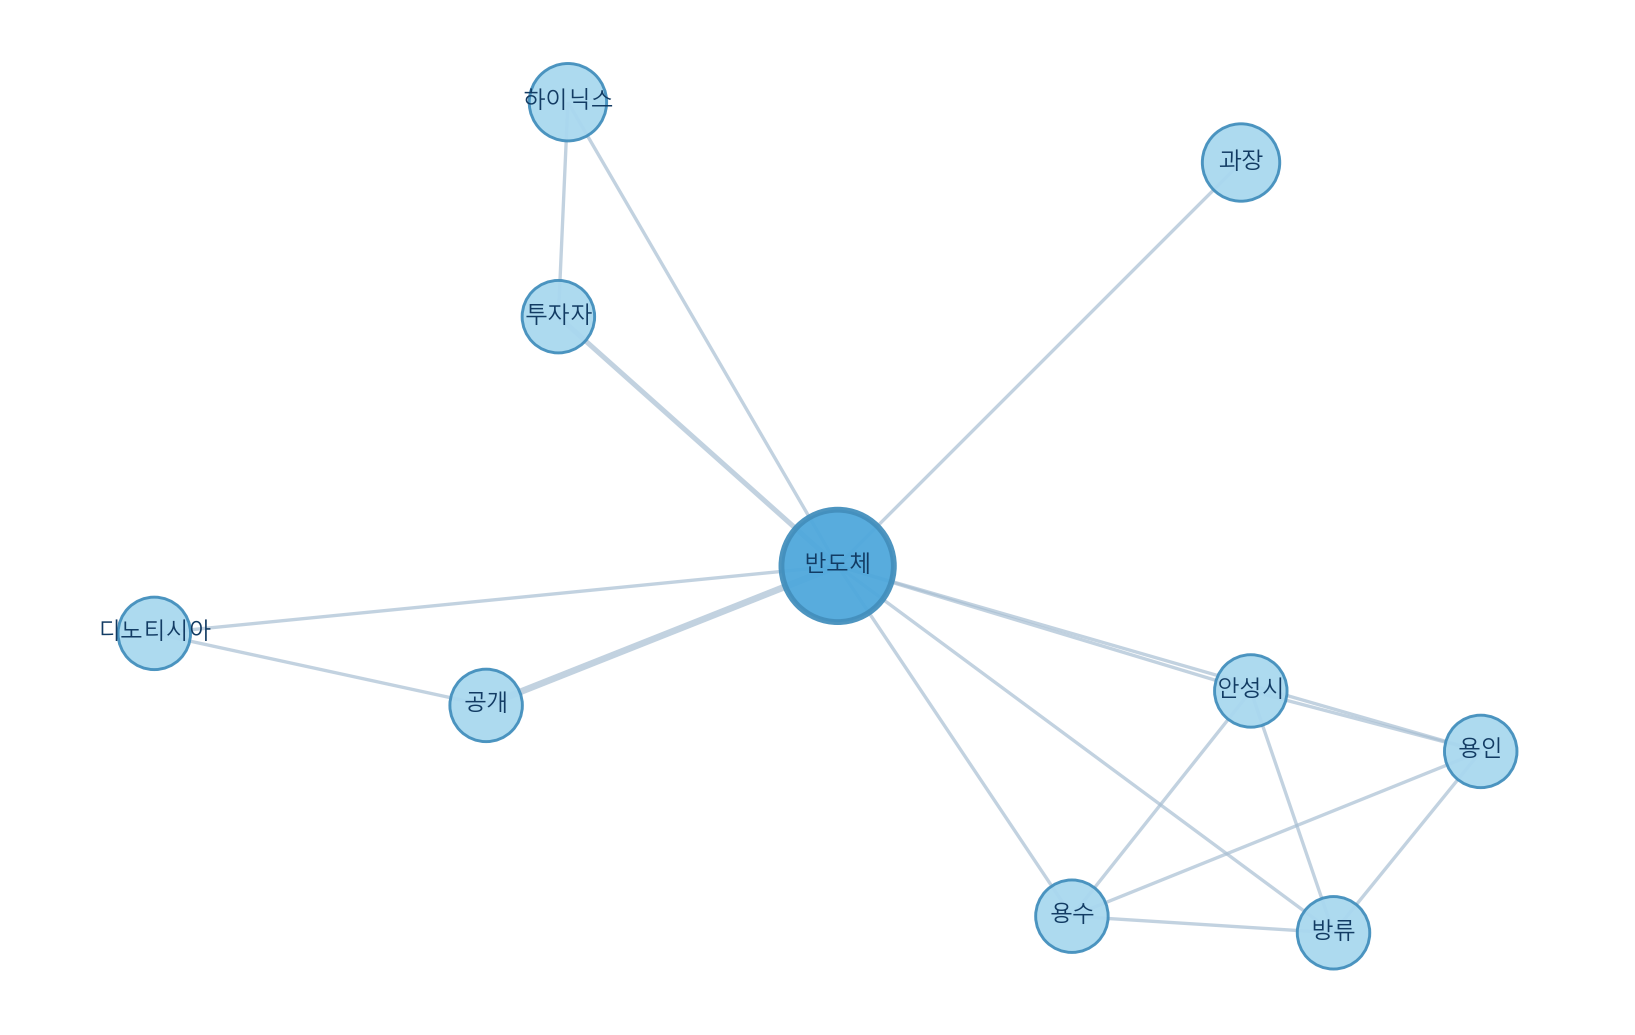
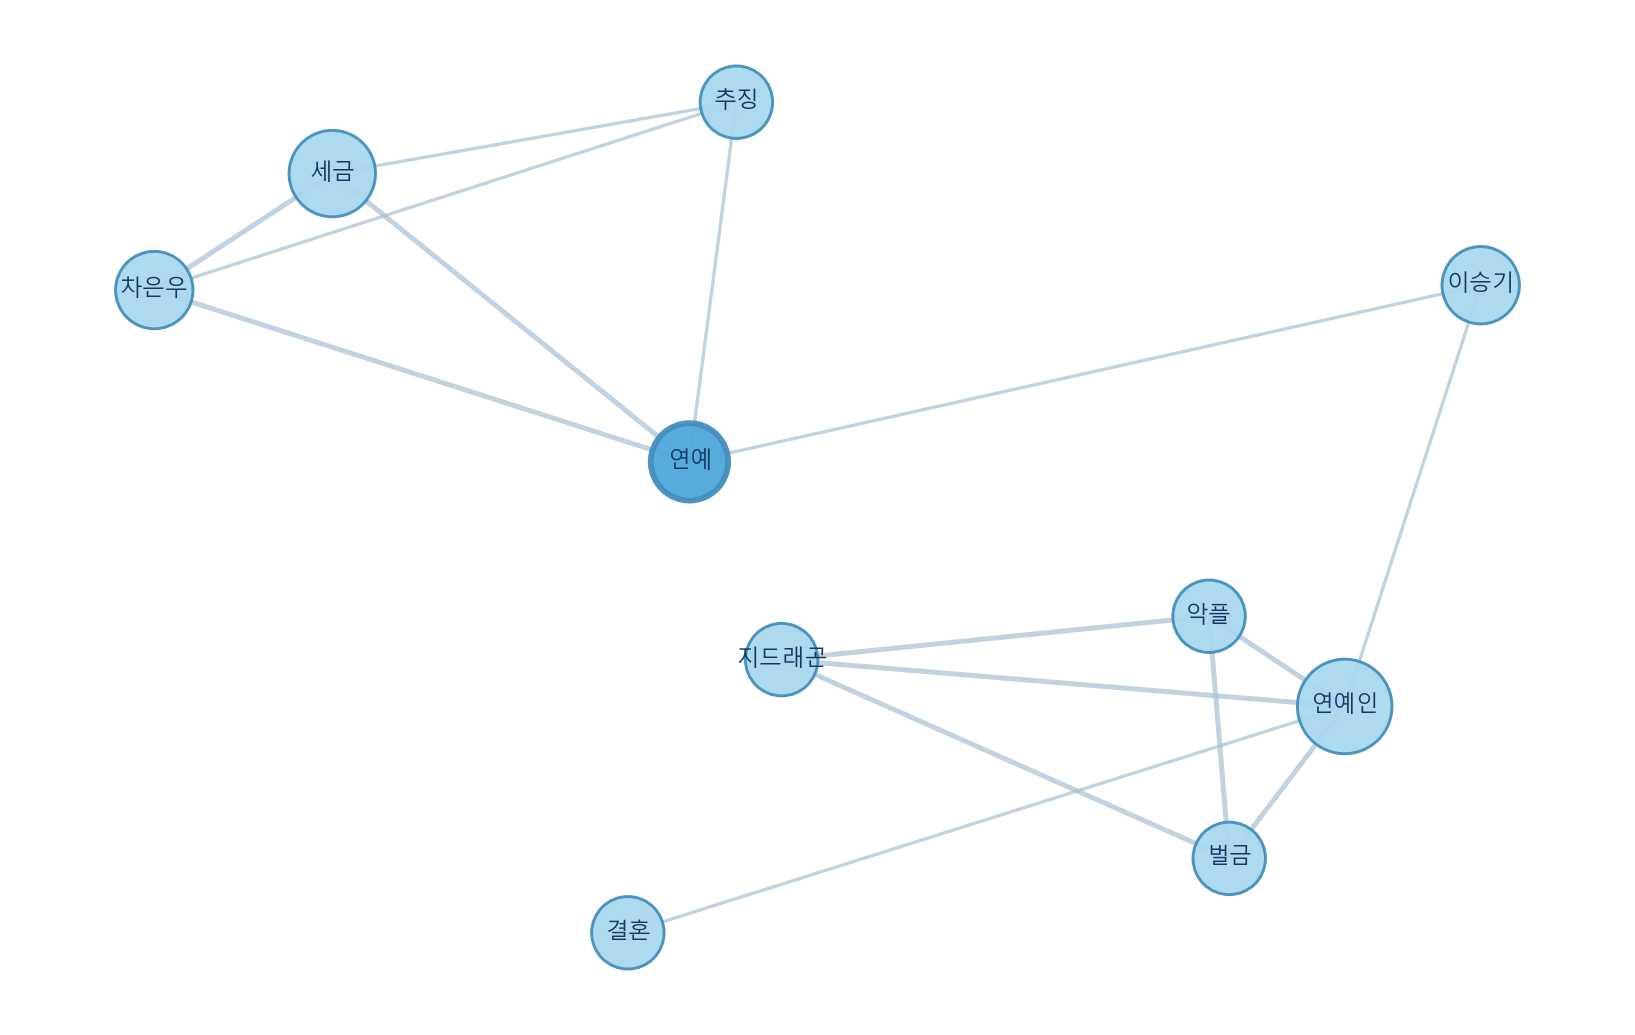
뉴스 관계도 및 관심 키워드 시각화 기능 추가
- NetworkX 기반 뉴스 관계도 시각화 기능 구현
- 사용자 검색 기록 기반 관심 키워드 분석 추가
- 관심 키워드를 막대 그래프로 시각화
- 추천뉴스 페이지 UI 개선 및 디자인 통일
- 뉴스 관계도 및 관심도 분석 기능 연동

diff --git a/templates/interests.html b/templates/interests.html
@@ -2,7 +2,12 @@
 <html lang="ko">
 <head>
     <meta charset="UTF-8">
-    <meta name="viewport" content="width=device-width, initial-scale=1.0">
+
+    <meta
+        name="viewport"
+        content="width=device-width, initial-scale=1.0"
+    >
+
     <title>추천뉴스 - NewsHub</title>
 
     <link
@@ -17,11 +22,19 @@
         <h1>추천뉴스</h1>
 
         {% if session.get("username") %}
-            <a href="{{ url_for('profile') }}" class="profile-icon">
+            <a
+                href="{{ url_for('profile') }}"
+                class="profile-icon"
+                aria-label="프로필"
+            >
                 👤
             </a>
         {% else %}
-            <a href="{{ url_for('login') }}" class="profile-icon">
+            <a
+                href="{{ url_for('login') }}"
+                class="profile-icon"
+                aria-label="로그인"
+            >
                 👤
             </a>
         {% endif %}
@@ -29,21 +42,38 @@
 
     <main>
 
-        <section class="interest-section">
+        <section class="interest-analysis">
             <h2>내 주요 관심 키워드</h2>
 
-            {% if keywords %}
-                <div class="keyword-list">
-                    {% for keyword, count in keywords %}
+            {% if interest_bars %}
+                <p class="interest-description">
+                    최근 검색 기록을 기반으로 분석한
+                    관심 키워드입니다.
+                </p>
+
+                <div class="interest-bar-list">
+                    {% for item in interest_bars %}
                     <a
-                        class="keyword-tag"
-                        href="{{ url_for('home', q=keyword) }}"
+                        class="interest-bar-item"
+                        href="{{ url_for(
+                            'home',
+                            q=item.keyword
+                        ) }}"
                     >
-                        {{ keyword }}
-                        <span>{{ count }}회</span>
+                        <div class="interest-bar-label">
+                            {{ item.keyword }}
+                        </div>
+
+                        <div class="interest-bar-track">
+                            <div
+                                class="interest-bar-fill"
+                                data-percentage="{{ item.percentage }}"
+                            ></div>
+                        </div>
                     </a>
                     {% endfor %}
                 </div>
+
             {% else %}
                 <p>
                     아직 분석할 검색 기록이 없습니다.
@@ -57,7 +87,15 @@
         {% if recommended_news %}
             {% for news in recommended_news %}
             <article>
-                <h3>{{ news.title }}</h3>
+                <h3>
+                    <a
+                        href="{{ news.link }}"
+                        target="_blank"
+                        rel="noopener noreferrer"
+                    >
+                        {{ news.title }}
+                    </a>
+                </h3>
 
                 <small>
                     {{ news.date }} | {{ news.source }}
@@ -72,6 +110,36 @@
                         news_id=news.id
                     ) }}"
                 >
+                    <input
+                        type="hidden"
+                        name="news_title"
+                        value="{{ news.title }}"
+                    >
+
+                    <input
+                        type="hidden"
+                        name="news_content"
+                        value="{{ news.content }}"
+                    >
+
+                    <input
+                        type="hidden"
+                        name="news_date"
+                        value="{{ news.date }}"
+                    >
+
+                    <input
+                        type="hidden"
+                        name="news_source"
+                        value="{{ news.source }}"
+                    >
+
+                    <input
+                        type="hidden"
+                        name="news_link"
+                        value="{{ news.link }}"
+                    >
+
                     <button
                         type="submit"
                         class="favorite-button"
@@ -91,10 +159,39 @@
     </main>
 
     <footer>
-        <a href="{{ url_for('home') }}">홈</a>
-        <a href="{{ url_for('favorites') }}">즐겨찾기</a>
-        <a href="{{ url_for('interests') }}">추천뉴스</a>
+        <a href="{{ url_for('home') }}">
+            홈
+        </a>
+
+        <a href="{{ url_for('favorites') }}">
+            즐겨찾기
+        </a>
+
+        <a href="{{ url_for('interests') }}">
+            추천뉴스
+        </a>
     </footer>
+
+    <script>
+        document
+            .querySelectorAll(".interest-bar-fill")
+            .forEach((bar) => {
+                const percentage = Number(
+                    bar.dataset.percentage
+                );
+
+                if (!Number.isFinite(percentage)) {
+                    return;
+                }
+
+                const safePercentage = Math.min(
+                    Math.max(percentage, 0),
+                    100
+                );
+
+                bar.style.width = `${safePercentage}%`;
+            });
+    </script>
 
 </body>
 </html>

diff --git a/static/style.css b/static/style.css
@@ -675,3 +675,90 @@ footer a:hover {
     height: auto;
     border-radius: 16px;
 }
+
+.interest-analysis {
+    background: #ffffff;
+    border-radius: 18px;
+    padding: 24px;
+    margin-bottom: 28px;
+    box-shadow: 0 2px 10px rgba(0, 0, 0, 0.08);
+}
+
+.interest-analysis h2 {
+    margin-top: 0;
+    margin-bottom: 8px;
+    color: #0b3d6e;
+}
+
+.interest-description {
+    margin-bottom: 20px;
+    color: #6b7280;
+    font-size: 14px;
+    line-height: 1.6;
+}
+
+.interest-bar-list {
+    display: flex;
+    flex-direction: column;
+    gap: 16px;
+}
+
+.interest-bar-item {
+    display: grid;
+    grid-template-columns: 110px 1fr;
+    align-items: center;
+    gap: 14px;
+    color: inherit;
+    text-decoration: none;
+}
+
+.interest-bar-label {
+    font-weight: 700;
+    color: #183b5b;
+    word-break: keep-all;
+}
+
+.interest-bar-track {
+    width: 85%;
+    max-width: 560px;
+    height: 14px;
+    background: #e8f2f9;
+    border-radius: 999px;
+    overflow: hidden;
+}
+
+.interest-bar-fill {
+    height: 100%;
+    min-width: 6px;
+    background: linear-gradient(
+        90deg,
+        #4aa9df,
+        #1d78b5
+    );
+    border-radius: 999px;
+    transition: width 0.3s ease;
+}
+
+.interest-bar-item:hover .interest-bar-fill {
+    filter: brightness(0.95);
+}
+
+@media (max-width: 600px) {
+    .interest-analysis {
+        padding: 20px;
+    }
+
+    .interest-bar-item {
+        grid-template-columns: 72px 1fr;
+        gap: 10px;
+    }
+}
+
+article h3 a {
+    color: #0b3d6e;
+    text-decoration: none;
+}
+
+article h3 a:hover {
+    text-decoration: underline;
+}

diff --git a/app.py b/app.py
@@ -1023,6 +1023,21 @@ def interests():
 
     connection.close()
 
+    if keywords:
+        max_count = keywords[0][1]
+
+        interest_bars = [
+            {
+                "keyword": keyword,
+                "percentage": round(
+                    count / max_count * 100
+                ),
+            }
+            for keyword, count in keywords
+        ]
+    else:
+        interest_bars = []
+    
     recommended_news = []
     saved_links = set()
 
@@ -1057,9 +1072,9 @@ def interests():
     return render_template(
         "interests.html",
         keywords=keywords,
+        interest_bars=interest_bars,
         recommended_news=recommended_news,
     )
-
 
 @app.route("/profile")
 def profile():
